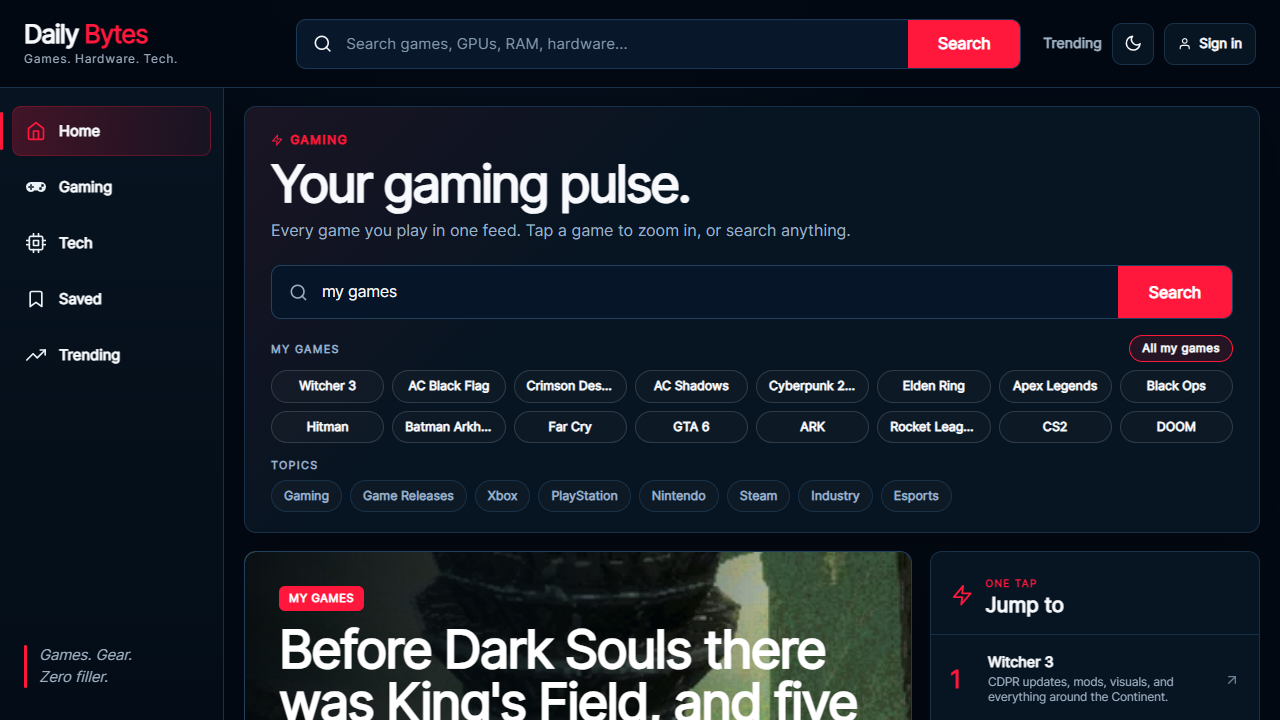
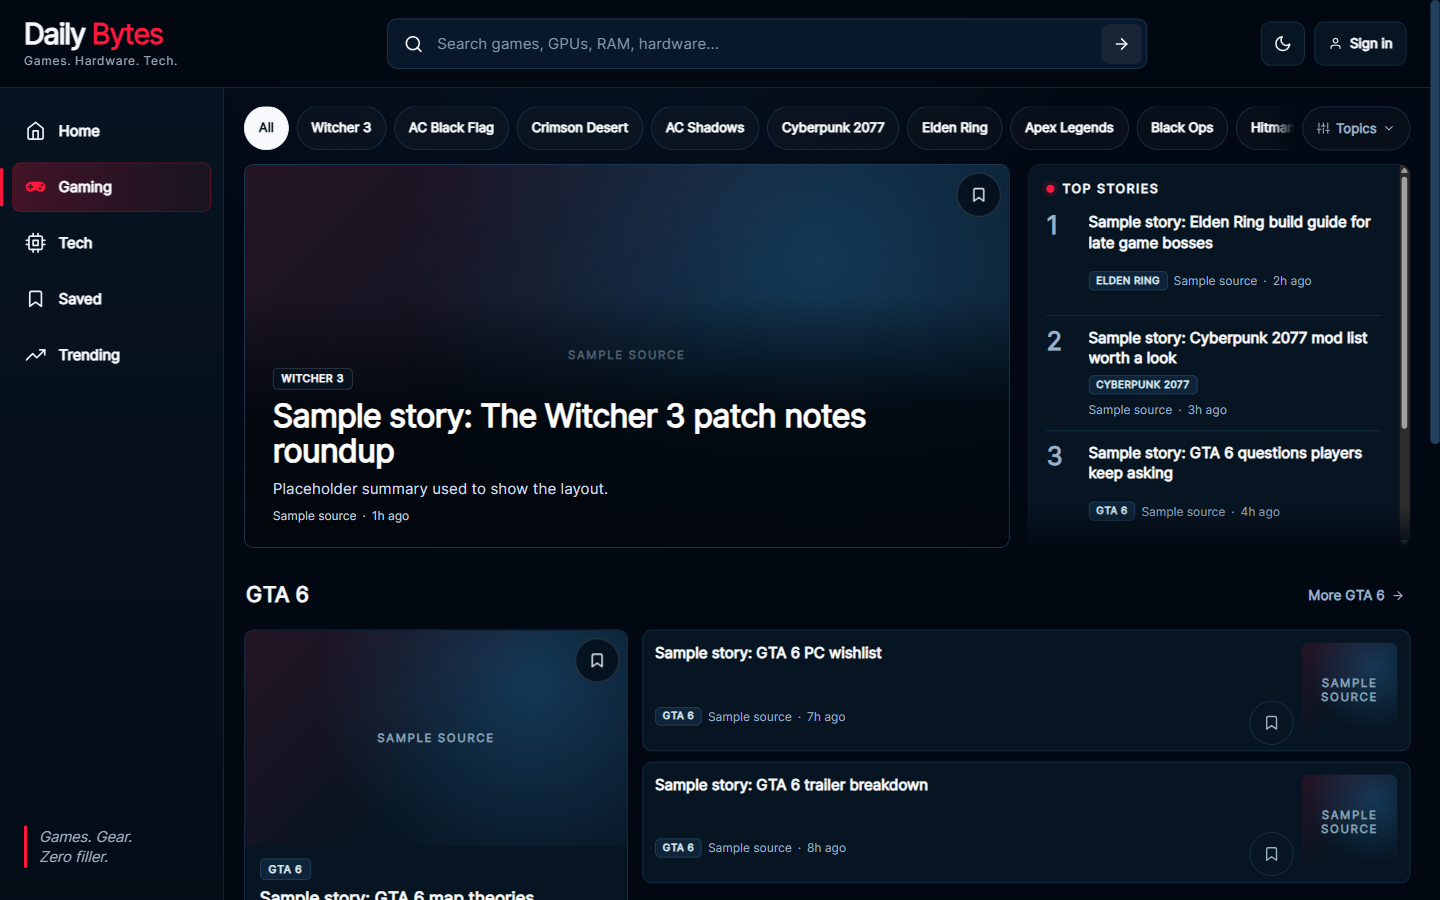
docs(readme): match the redesigned feed (screenshots, highlights, routes, Node 22)

diff --git a/README.md b/README.md
@@ -4,7 +4,11 @@ Games. Hardware. Tech. A gaming and tech news dashboard.
 
 [![Live demo](https://img.shields.io/badge/live%20demo-online-2ea44f)](https://the-daily-bytes-o4jo.onrender.com)
 
-![Daily Bytes home page](docs/screenshot.png)
+![Daily Bytes gaming hub on desktop](docs/screenshot.png)
+
+<img src="docs/screenshot-phone.png" alt="Daily Bytes gaming hub on a phone" width="300">
+
+Screenshots use sample headlines and the app's own fallback art, not live news.
 
 Daily Bytes is a gaming- and tech-first news dashboard built around the topics I actually follow: games, Witcher/CDPR, NVIDIA/RTX and AMD/Radeon hardware, GPU pricing, RAM/DDR5/SSD pricing, and enthusiast PC hardware.
 
@@ -35,7 +39,13 @@ The app runs on Render's free plan, so the first visit after a quiet spell can t
 
 ## Highlights
 
-- **Gaming and Tech hubs** with quick-jump shortcuts for the games and hardware topics I follow (Witcher 3, NVIDIA/RTX, AMD/Radeon, GPU prices, RAM/SSD, PC hardware).
+- **Gaming and Tech hubs** with one chip strip for the games and gear I follow (Witcher 3, RTX, Ryzen, RAM prices) and a Topics button for the broader ones.
+- **Front page built to scan:** a lead story, a ranked Top stories rail (wider screens), a topic cluster and a Latest list. "Load more" never reshuffles what is already on screen.
+- **Story cards that explain themselves:** the whole card is one link, and its tag names the game or part the story is about.
+- **Trending page** as one numbered list, two columns on wide screens.
+- **Phone layout:** compact rows, a header that hides while reading, a bottom tab bar and 44px tap targets.
+- **Keyboard friendly:** skip link, and focus is not left hidden behind the header, tab bar or chip row.
+- **Feed cleanup:** shopping listings are filtered out of the news.
 - **One-request default feed expansion** so the homepage can surface gaming and priority PC-hardware stories without multiplying provider calls.
 - **Server-side relevance ranking and deduplication** for stronger keyword matches, duplicate headlines, URL duplicates, and freshness tie-breaking.
 - **Global search** with focused query routes and synchronized navigation state.
@@ -44,8 +54,8 @@ The app runs on Render's free plan, so the first visit after a quiet spell can t
 - **MongoDB saved articles** with per-user unique URL protection.
 - **15-minute bounded news cache** to reduce repeat Mediastack requests, with a stale-cache fallback so a provider hiccup does not blank the page.
 - **Free RSS fallback** (IGN, PC Gamer, GameSpot, Eurogamer and others) for gaming and tech queries when Mediastack is rate limited, failing, or empty.
-- **Resilient article images** that fall back to branded card art instead of browser broken-image icons.
-- **Trending Watch and category feeds** with real loading, error, empty, retry, and pagination states.
+- **Resilient article images:** a skeleton while loading, then branded card art if an image fails or stalls, never a broken-image icon.
+- **Real loading, error, empty, retry and pagination states** on the feeds.
 - **Daily Horoscope extra** using a server-side API proxy with validated zodiac input and honest provider-backed fields.
 - **Responsive dark/light presentation** with a compact mobile navigation layout.
 
@@ -79,7 +89,8 @@ The-Daily-Bytes/
 ├── client/                 React/Vite application
 │   ├── src/api/            Browser API clients
 │   ├── src/components/     Shared navigation/news UI
-│   ├── src/pages/          Feed, auth, saved, horoscope, category pages
+│   ├── src/config/         Hub chips and copy (gaming, tech)
+│   ├── src/pages/          Hubs, trending, saved, auth, horoscope
 │   ├── src/utils/          Small testable client utilities
 │   └── tests/              Native Node regression tests
 ├── server/                 Express API and production server
@@ -109,7 +120,7 @@ npm install
 
 ### 3. Configure environment variables
 
-Requires **Node.js 20+** and a MongoDB database (Atlas or local).
+Requires **Node.js 22** (the version CI runs) and a MongoDB database (Atlas or local).
 
 | Variable | Required | Notes |
 | --- | --- | --- |
@@ -156,7 +167,13 @@ GET  /api/horoscope
 GET  /api/health
 ```
 
+`/api/news` with no category returns the gaming feed, and unknown `/api` paths answer with a JSON `404`.
+
 News provider credentials stay server-side; the React client never receives the Mediastack API key.
+
+### App routes
+
+`/` and `/dailybyte` (gaming), `/tech`, `/trending`, `/saved`, `/horoscope`, `/login`, `/signup`.
 
 ## Data
 
